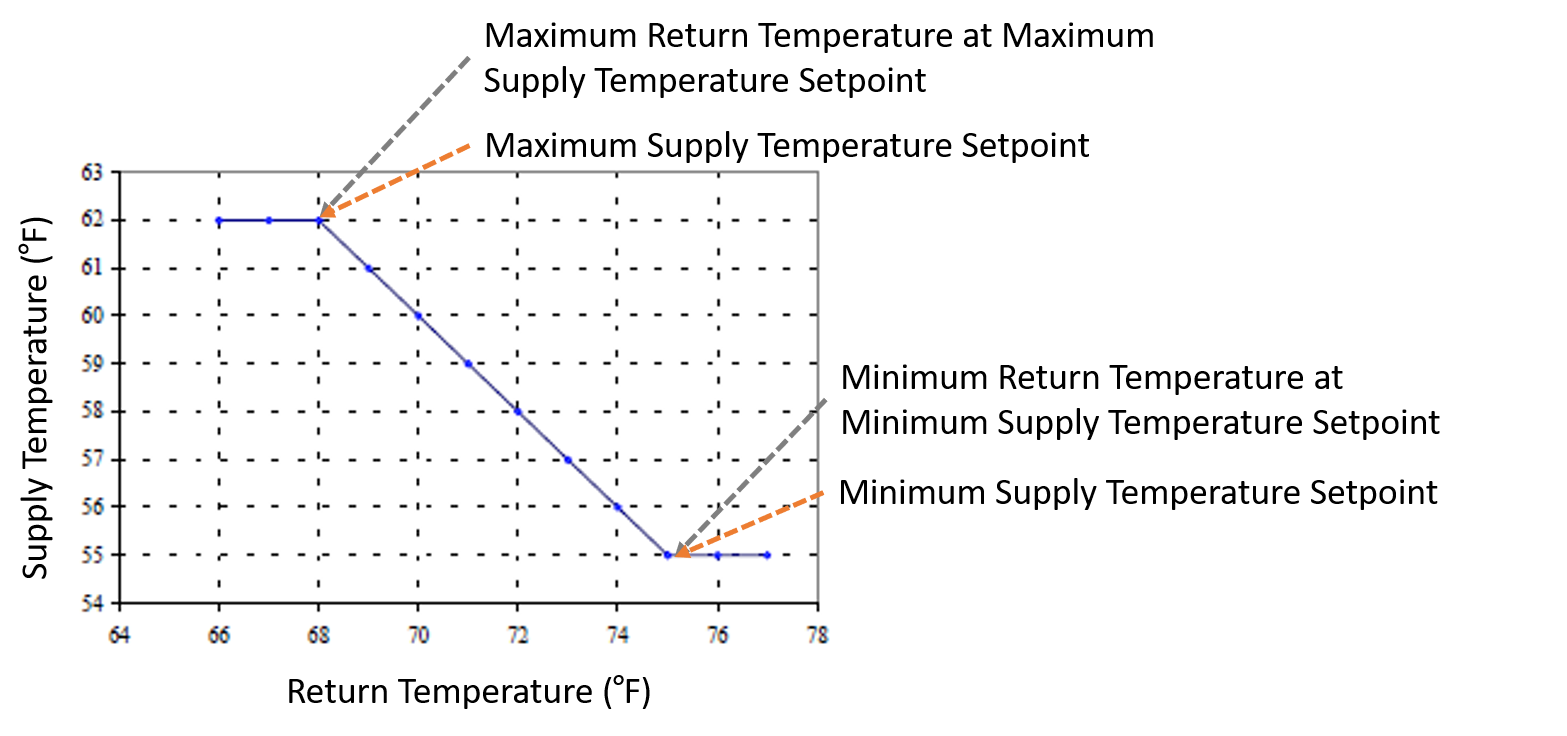
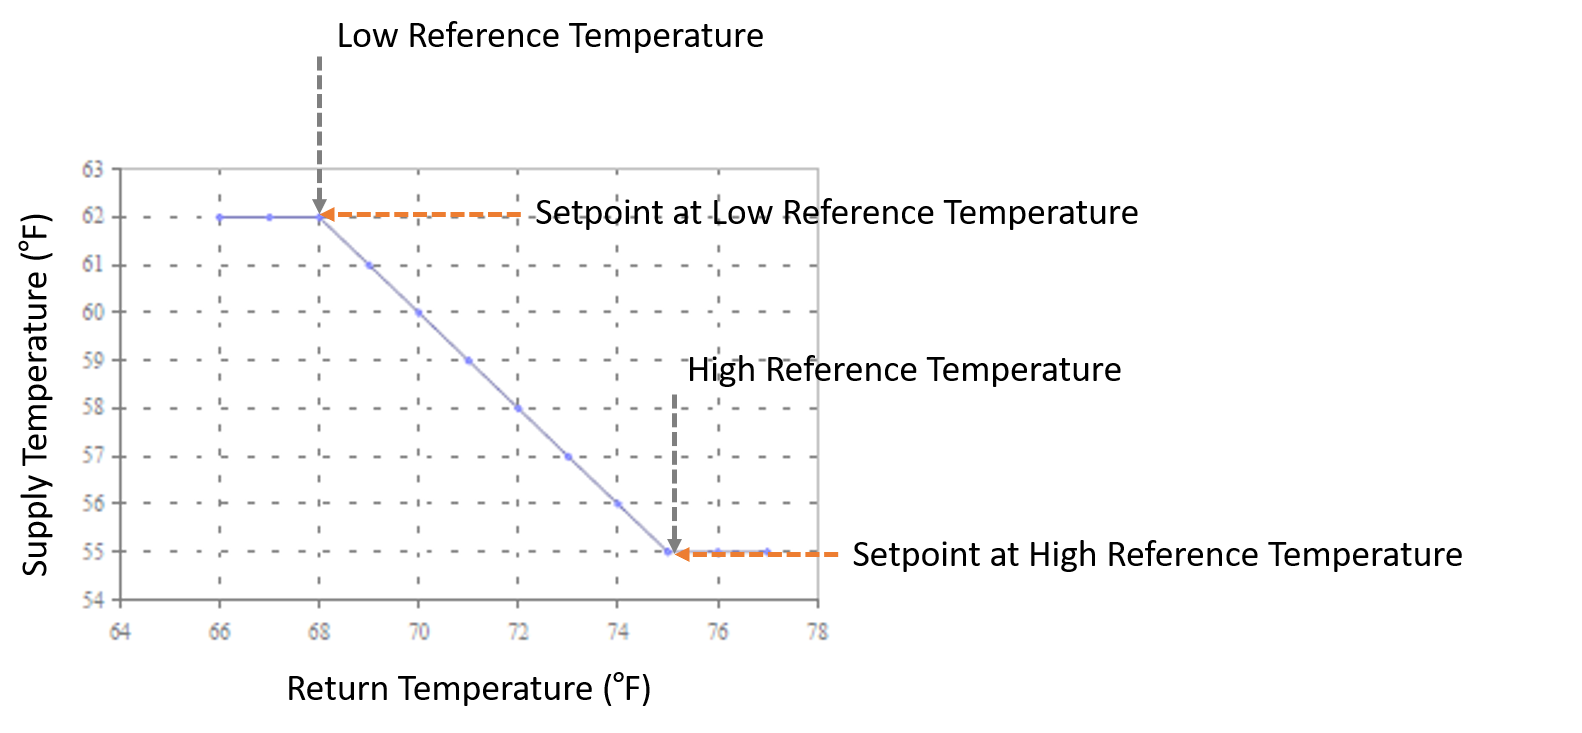
updated the NFP & DD [decent_ci_skip]

diff --git a/design/FY2022/NFP-RAT_SPM.md b/design/FY2022/NFP-RAT_SPM.md
@@ -1,15 +1,14 @@
-Return Air Temperature & Humidity Reset Setpoint Manager
+Return Temperature & Humidity Ratio Reset Setpoint Manager
 ================
 
 **Jeremy Lerond, Wooyoung Jung, Jian Zhang PNNL**
 
  - Original Date: 10/27/2021
- - Revision Date: N/A
-
+ - Revision Date: 01/14/2022
 
 ## Justification for New Feature ##
 
-Currently, EnergyPlus does not support Supply Temperature or Humidity Ratio Setpoint Reset based on a system's Return Temperature or Humidity ratio. While this method is not often used for high-performance building, these reset control strategies are widely used in the industry. Hence, a request to add such setpoint managers to EnergyPlus has been made and this new feature will deliver such needs.
+Currently, EnergyPlus does not support Supply Temperature or Humidity Ratio Setpoint Reset based on a system's Return (i.e., Reference) Temperature or Humidity ratio. While this method is not often used for high-performance building, these reset control strategies are widely used in the industry. Hence, a request to add such setpoint managers to EnergyPlus has been made and this new feature will deliver such needs.
 
 The request can take two approaches: (1) an approach similar to the `SetpointManager:OutdoorAirReset` object, but looking at return temperature or humidity ratio to determine the setpoint, and (2) an approach similar to the `SetpointManager:ReturnTemperature:ChilledWater` object but applicable to an air loop as well. After discussing with industry experts and gathering supportive information, it was found that the former approach is the most widely used, the latter is mostly used for single-zone systems (which could use the `SetpointManager:SingleZone:Heating/Cooling` objects) or systems with very large air flows. Hence, this NFP will take the former approach.
 
@@ -37,7 +36,7 @@ A new subsection for the new SPM will be added to the I/O reference guide as fol
 
 \subsection{SetpointManager:SystemNodeReset}\label{setpointmanagersystemnodereset}
 
-The System Node Reset Setpoint Manager is used to place a temperature or humidity ratio setpoint on a system node or any other user-specified node according to the return temperature or humidity ratio of a system node using a reset rule. The reset rule is determined by two points: the maximum and the minimum supply temperature or humidity ratio setpoints (MaxSpTemp and MinSpTemp or MaxSpHumRat and MinSpHumRat). In general, the higher the return temperature or humidity ratio, the lower the supply temperature or humidity ratio. Specifically, the maximum supply temperature or humidity ratio setpoints start decreasing linearly to the minimum supply temperature or humidity ratio setpoints once the return temperature or humidity ratio becomes higher than a certain point, i.e., the maximum return temperature or humidity ratio at maximum supply temperature or humidity ratio setpoints (MaxRetTempAtMaxSpTemp or MaxRetHumRatAtMaxSpHumRat). Also, once the return temperature or humidity ratio becomes higher than a certain point, the return temperature or humidity setpoint becomes the minimum, i.e., the minimum return temperature at minimum supply temperature or humidity ratio setpoint (MinRetTempAtMinSpTemp or MinRetHumRatAtMinSpHumRat).
+The System Node Reset Setpoint Manager is used to place a temperature or humidity ratio setpoint on a system node or any other user-specified node according to the return (i.e., reference) temperature or humidity ratio of a system node using a reset rule. The reset rule is determined by two points: setpoints at low and high temperature or humidity ratio (MaxSpTemp and MinSpTemp or MaxSpHumRat and MinSpHumRat). In general, the higher the return temperature or humidity ratio, the lower the supply temperature or humidity ratio. Specifically, the maximum supply temperature or humidity ratio setpoints start decreasing linearly to the minimum supply temperature or humidity ratio setpoints once the return temperature or humidity ratio becomes higher than a certain point, i.e., the maximum return temperature or humidity ratio at maximum supply temperature or humidity ratio setpoints (MaxRetTempAtMaxSpTemp or MaxRetHumRatAtMaxSpHumRat). Also, once the return temperature or humidity ratio becomes higher than a certain point, the return temperature or humidity setpoint becomes the minimum, i.e., the minimum return temperature at minimum supply temperature or humidity ratio setpoint (MinRetTempAtMinSpTemp or MinRetHumRatAtMinSpHumRat).
 The return temperature or humidity ratio is obtained from the user-specified system node during the simulation. This setpoint manager can be used to place a temperature or humidity ratio setpoint on HVAC system nodes.
 
 The input consists of the setpoint manager name, the control variable (either temperature or humidity), a node list name of the nodes affected by the setpoint, the name of the return node name, and the data for the reset rule: the maximum and minimum temperature setpoints, the maximum return temperature at the maximum supply temperature setpoint, the temperature setpoint at the return high temperature, the return high temperature limit, the humidity ratio setpoint at the return low humidity ratio, the return low humidity limit, the humidity ratio setpoint at the return high humidity, the return high humidity limit.
@@ -53,43 +52,47 @@ A unique, user-assigned name for an instance of a return reset setpoint manager.
 The type of variable that will be controlled. There are two key choices for this type of set point manager:
 \begin{itemize}
   \item Temperature
-  \item Humidity Ratio
+  \item MaximumTemperature
+  \item MinimumTemperature
+  \item HumidityRatio
+  \item MaximumHumidityRatio
+  \item MinimumHumidityRatio
 
-\paragraph{Field: Maximum Supply Temperature Setpoint}\label{field-maximum-supply-temperature-setpoint}
+\paragraph{Field: Setpoint at Low Reference Temperature}\label{field-setpoint-at-low-reference-temperature}
 
-The maximum supply temperature setpoint in \(^{o}\)C for the reset rule. e
+The temperature setpoint in \(^{o}\)C at the low reference temperature for the reset rule. This input is required when Temperature, MaximumTemperature or MinimumTemperature is selected as the control variable.
 
-\paragraph{Field: Minimum Supply Temperature Setpoint}\label{field-minimum-supply-temperature-setpoint}
+\paragraph{Field: Setpoint at High Reference Temperature}\label{field-setpoint-at-low-reference-temperature}
 
-The minimum supply temperature setpoint in \(^{o}\)C for the reset rule.
+The temperature setpoint in \(^{o}\)C at the high reference temperature for the reset rule. This input is required when Temperature, MaximumTemperature or MinimumTemperature is selected as the control variable.
 
-\paragraph{Field: Maximum Return Temperature at Maximum Supply Temperature Setpoint}\label{field-maximum-return-temperature-at-maximum-supply-temperature-setpoint}
+\paragraph{Field: Low Reference Temperature}\label{field-low-reference-temperature}
 
-The maximum return temperature in \(^{o}\)C that the maximum supply temperature setpoint gets applied. In other words, when the return temperature is lower than this value, the maximum return temperature will be applied.
+The low reference temperature in \(^{o}\)C for the reset rule. In other words, when the reference temperature is lower than this value, the temperature setpoint is at its maximum.
 
-\paragraph{Field: Minimum Return Temperature at Minimum Supply Temperature Setpoint}\label{field-minimum-return-temperature-at-minimum-supply-temperature-setpoint}
+\paragraph{Field: High Reference Temperature}\label{field-high-reference-temperature}
 
-The minimum return temperature in \(^{o}\)C that the minimum supply temperature setpoint gets applied. In other words, when the return temperature is higher than this value, the minimum return temperature will be applied.
+The high reference temperature in \(^{o}\)C for the reset rule. In other words, when the reference temperature is higher than this value, the temperature setpoint is at its minimum.
 
-\paragraph{Field: Maximum Supply Humidity Ratio Setpoint}\label{field-maximum-supply-humidity-ratio-setpoint}
+\paragraph{Field: Setpoint at Low Reference Humidity Ratio}\label{field-setpoint-at-low-reference-humidity-ratio}
 
-The maximum supply humidity ratio setpoint in kgWater/kgDryAir for the reset rule.
+The humidity ratio setpoint in kgWater/kgDryAir at the low reference humidity ratio for the reset rule. This input is required when HumidityRatio, MaximumHumidityRatio or MinimumHumidityRatio is selected as the control variable.
 
-\paragraph{Field: Maximum Supply Humidity Ratio Setpoint}\label{field-maximum-supply-humidity-ratio-setpoint}
+\paragraph{Field: Setpoint at High Reference Humidity Ratio}\label{field-setpoint-at-high-reference-humidity-ratio}
 
-The minimum supply humidity ratio setpoint in kgWater/kgDryAir for the reset rule.
+The humidity ratio setpoint in kgWater/kgDryAir at the high reference humidity ratio for the reset rule. This input is required when HumidityRatio, MaximumHumidityRatio or MinimumHumidityRatio is selected as the control variable.
 
-\paragraph{Field: Maximum Return Humidity Ratio at Maximum Supply Humidity Ratio Setpoint}\label{field-maximum-return-humidity-ratio-at-maximum-supply-humidity-ratio-setpoint}
+\paragraph{Field: Low Reference Humidity Ratio}\label{field-low-reference-humidity-ratio}
 
-The maximum return humidity ratio in kgWater/kgDryAir where the maximum supply humidity ratio gets applied. In other words, when the return humidity ratio is lower than this value, the maximum return humidity ratio will be applied.
+The low reference humidity ratio in kgWater/kgDryAir for the reset rule. In other words, when the reference humidity ratio is lower than this value, the humidity ratio setpoint is at its maximum.
 
-\paragraph{Field: Minimum Return Humidity Ratio at Minimum Supply Humidity Ratio Setpoint}\label{field-return-high-humidity-ratio}
+\paragraph{Field: High Reference Humidity Ratio}\label{field-high-reference-humidity-ratio}
 
-The minimum return humidity ratio in kgWater/kgDryAir where the minimum supply humidity ratio gets applied. In other words, when the return humidity ratio is higher than this value, the minimum return humidity ratio will be applied.
+The high reference humidity ratio in kgWater/kgDryAir for the reset rule. In other words, when the reference humidity ratio is higher than this value, the humidity ratio setpoint is at it minimum.
 
-\paragraph{Field: Return Node Name}\label{field-return-node-name}
+\paragraph{Field: Reference Node Name}\label{field-reference-node-name}
 
-The name of a return system node which will be used as a reference to determine the setpoint established by this setpoint manager.
+The name of a reference system node which will be used as a reference to determine the setpoint established by this setpoint manager.
 
 \paragraph{Field: Setpoint Node or NodeList Name}\label{field-setpoint-node-or-nodelist-name}
 
@@ -102,29 +105,29 @@ Below are examples, showing the inputs for SetpointManager:SystemNodeReset.
 SetpointManager:SystemNodeReset,
   Supply Air Temp Manager,    !- Name
   Temperature,                !- Control Variable
-  16.7,                       !- Maximum Supply Temperature Setpoint {C}
-  20.0,                       !- Minimum Supply Temperature Setpoint {C}
-  12.8,                       !- Maximum Return Temperature at Maximum Supply Temperature Setpoint {C}
-  23.9,                       !- Minimum Return Temperature at Minimum Supply Temperature Setpoint {C}
-  ,                           !- Maximum Supply Humidity Ratio Setpoint {kgWater/kgDryAir}
-  ,                           !- Minimum Supply Humidity Ratio Setpoint {kgWater/kgDryAir}
-  ,                           !- Maximum Return Humidity Ratio at Maximum Supply Humidity Ratio Setpoint {kgWater/kgDryAir}
-  ,                           !- Minimum Return Humidity Ratio at Minimum Supply Humidity Ratio Setpoint {kgWater/kgDryAir}
-  Return Air Node,            !- Return Node Name
+  20.0,                       !- Setpoint at Low Reference Temperature {C}
+  16.7,                       !- Setpoint at High Reference Temperature {C}
+  12.8,                       !- Low Reference Temperature {C}
+  23.9,                       !- High Reference Temperature {C}
+  ,                           !- Setpoint at Low Reference Humidity Ratio {kgWater/kgDryAir}
+  ,                           !- Setpoint at High Reference Humidity Ratio {kgWater/kgDryAir}
+  ,                           !- Low Reference Humidity Ratio {kgWater/kgDryAir}
+  ,                           !- High Reference Humidity Ratio {kgWater/kgDryAir}
+  Return Air Node,            !- Reference Node Name
   Supply Air Temp Nodes;      !- Setpoint Node or NodeList Name
 
 SetpointManager:SystemNodeReset,
   Supply Humidity Manager,       !- Name
   Humidity Ratio,                !- Control Variable
-  ,                              !- Maximum Supply Temperature Setpoint {C}
-  ,                              !- Minimum Supply Temperature Setpoint {C}
-  ,                              !- Maximum Return Temperature at Maximum Supply Temperature Setpoint {C}
-  ,                              !- Minimum Return Temperature at Minimum Supply Temperature Setpoint {C}
-  0.008,                         !- Maximum Supply Humidity Ratio Setpoint {kgWater/kgDryAir}
-  0.004,                         !- Minimum Supply Humidity Ratio Setpoint {kgWater/kgDryAir}
-  0.003,                         !- Maximum Return Humidity Ratio at Maximum Supply Humidity Ratio Setpoint {kgWater/kgDryAir}
-  0.010,                         !- Minimum Return Humidity Ratio at Minimum Supply Humidity Ratio Setpoint {kgWater/kgDryAir}
-  Return Air Node,               !- Return Node Name
+  ,                              !- Setpoint at Low Reference Temperature {C}
+  ,                              !- Setpoint at High Reference Temperature {C}
+  ,                              !- Low Reference Temperature {C}
+  ,                              !- High Reference Temperature {C}
+  0.008,                         !- Setpoint at Low Reference Humidity Ratio {kgWater/kgDryAir}
+  0.004,                         !- Setpoint at High Reference Humidity Ratio {kgWater/kgDryAir}
+  0.003,                         !- Low Reference Humidity Ratio {kgWater/kgDryAir}
+  0.010,                         !- High Reference Humidity Ratio {kgWater/kgDryAir}
+  Return Air Node,               !- Reference Node Name
   Supply Air Temp Nodes;         !- Setpoint Node or NodeList Name
 \end{lstlisting}
 
@@ -134,7 +137,7 @@ A new `SetpointManager:SystemNodeReset` object will be added as follows:
 ```
 SetpointManager:SystemNodeReset,
      \memo This Setpoint Manager is used to place a temperature or humidity ratio setpoint on a system node
-     \memo according to the return temperature or humidity ratio using a reset rule. The return temperature or humidity ratio
+     \memo according to the return (i.e, reference) temperature or humidity ratio using a reset rule. The return temperature or humidity ratio
      \memo is obtained by retrieving the temperature or humidity ratio of the user specified return system node.
   A1 , \field Name
        \required-field
@@ -142,32 +145,36 @@ SetpointManager:SystemNodeReset,
        \required-field
        \type choice
        \key Temperature
-       \key Humidity Ratio
-  N1 , \field Maximum Supply Temperature Setpoint
+       \key MaximumTemperature
+       \key MinimumTemperature
+       \key HumidityRatio
+       \key MaximumHumidityRatio
+       \key MinimumHumidityRatio
+  N1 , \field Setpoint at Low Reference Temperature
        \units C
-       \note Applicable only if Control Variable is Temperature
-  N2 , \field Minimum Supply Temperature Setpoint
+       \note Applicable only if Control Variable is Temperature, MaximumTemperature, or MinimumTemperature.
+  N2 , \field Setpoint at High Reference Temperature
        \units C
-       \note Applicable only if Control Variable is Temperature
-  N3 , \field Maximum Return Temperature at Maximum Supply Temperature Setpoint
+       \note Applicable only if Control Variable is Temperature, MaximumTemperature, or MinimumTemperature.
+  N3 , \field Low Reference Temperature
        \units C
-       \note Applicable only if Control Variable is Temperature
-  N4 , \field Minimum Return Temperature at Minimum Supply Temperature Setpoint
+       \note Applicable only if Control Variable is Temperature, MaximumTemperature, or MinimumTemperature.
+  N4 , \field High Reference Temperature
        \units C
-       \note Applicable only if Control Variable is Temperature
-  N1 , \field Maximum Supply Humidity Ratio Setpoint
+       \note Applicable only if Control Variable is Temperature, MaximumTemperature, or MinimumTemperature.
+  N1 , \field Setpoint at Low Reference Humidity Ratio
        \units kgWater/kgDryAir
-       \note Applicable only if Control Variable is Humidity Ratio
-  N2 , \field Minimum Supply Humidity Ratio Setpoint
+       \note Applicable only if Control Variable is HumidityRatio, MaximumHumidityRatio, or MinimumHumidityRatio
+  N2 , \field Setpoint at High Reference Humidity Ratio
        \units kgWater/kgDryAir
-       \note Applicable only if Control variable is Humidity Ratio
-  N3 , \field Maximum Humidity Ratio at Maximum Supply Humidity Ratio Setpoint
+       \note Applicable only if Control variable is Humidity Ratio, MaximumHumidityRatio, or MinimumHumidityRatio
+  N3 , \field Low Reference Humidity Ratio
        \units kgWater/kgDryAir
-       \note Applicable only if Control variable is Humidity Ratio
-  N4 , \field Minimum Humidity Ratio at Minimum Supply Humidity Ratio Setpoint
+       \note Applicable only if Control variable is Humidity Ratio, MaximumHumidityRatio, or MinimumHumidityRatio
+  N4 , \field High Reference Humidity Ratio
        \units kgWater/kgDryAir
-       \note Applicable only if Control variable is Humidity Ratio    
-  A3 , \field Return Node Name
+       \note Applicable only if Control variable is Humidity Ratio, MaximumHumidityRatio, or MinimumHumidityRatio   
+  A3 , \field Reference Node Name
        \note The name of an HVAC system node
        \required-field
        \type node
@@ -185,7 +192,7 @@ No new outputs will be created.
 
 A new subsection under Setpoint Managers will be created and contain the following text:
 
-The input object SetpointManager:SystemNodeReset provides a setpoint manager that places a temperature or humidity setpoint on a system node (or any other user-specified system node) according to the return temperature or humidity using a reset strategy. The user defines a reset rule for this strategy by specifying two supply temperature or humidity ratio setpoints at two return air temperatures or humidity ratios. Generally the lower supply temperature (or humidity ratio) setpoint is matched with the higher return air temperature (or humidity ratio) and vice versa.
+The input object SetpointManager:SystemNodeReset provides a setpoint manager that places a temperature or humidity setpoint on a system node (or any other user-specified system node) according to the return (i.e., reference) temperature or humidity using a reset strategy. The user defines a reset rule for this strategy by specifying two supply temperature or humidity ratio setpoints at two return air temperatures or humidity ratios. Generally the lower supply temperature (or humidity ratio) setpoint is matched with the higher return air temperature (or humidity ratio) and vice versa.
 
 The parameter \(T_{set}\) is determined as per the following pseudo code:
 ```
@@ -208,7 +215,7 @@ When humidity ratio is selected as the control variable, the same pseudo code, b
 
 ## Example File and Transition Changes ##
 
-A new example idf file using SetpointManager:SystemNodeReset will be created to demonstrate how this new feature can be used. The Output:Variable objects in the example idf will be added so that this example file produces the output files showing how SetpointManager:SystemNodeReset plays a role to determine the setpoint.
+A new example idf file using SetpointManager:SystemNodeReset will be created to demonstrate how this new feature can be used. This example file will demonstrate how this new SetpointManager will be applied to air loop and plant loop nodes. Also, the Output:Variable objects in the example idf will be added so that this example file produces the output files showing how SetpointManager:SystemNodeReset plays a role to determine the setpoint.
 
 No transition changes are expected.
 
@@ -224,8 +231,10 @@ This new feature revises modules: SetpointManager.
 A new object called SetpointManager:SystemNodeReset, as shown in the Input Description Section, will be added to the idd file.
 
 ## Setpoint Manager ##
-This code change adds a new structure called `DefineSystemNdResetSetPointManager` to the heading file (`SetPointManager.hh`) and the other changes are made to `SetPointManager.cc`.
+This code change adds a new structure called `DefineSysNodeResetSetPointManager` to the heading file (`SetPointManager.hh`) and the other changes are made to `SetPointManager.cc`.
 
 The inputs will be grabbed through the `GetSetPointManagerInputData` function, similar with other SetpointManager objects. The following are the cases that the error gets produced: (1) when the invalid control variable is inputted, (2) the maximum temperature or humidity ratio setpoint is higher than the minimum temperature or humidity ratio setpoint.
 
-The new function called `DefineSystemNdResetSetPointManager::calculate` will determine which input parameters will be used for setpoint calculation depending on the selected control variable. In addition, the function called `DefineSystemNdResetSetPointManager::CalcSetPoint` will calculate the setpoint using the logic introduced in the pseudo code above. The calculated setpoint gets applied through `InitSetPointManagers`, `SimSetPointManagers`, and `UpdateSetPointManagers` functions, similar with other SetpointManager objects.
+The new function called `DefineSystemNdResetSetPointManager::calculate` will determine which input parameters will be used for setpoint calculation depending on the selected control variable. Since the calculation for the sepoint is the same as the SetpointManager:OutdoorAirReset (`DefineOutsideAirSetPointManager::CalcSetPoint`), thie function will be independently written outside the `DefineOutsideAirSetPointManager` struct and then applied to `DefineOutsideAirSetPointManager::calculate` and `DefineSysNodeResetSetPointManager::calculate`.
+
+The calculated setpoint gets applied through `InitSetPointManagers`, `SimSetPointManagers`, and `UpdateSetPointManagers` functions, similar with other SetpointManager objects.
